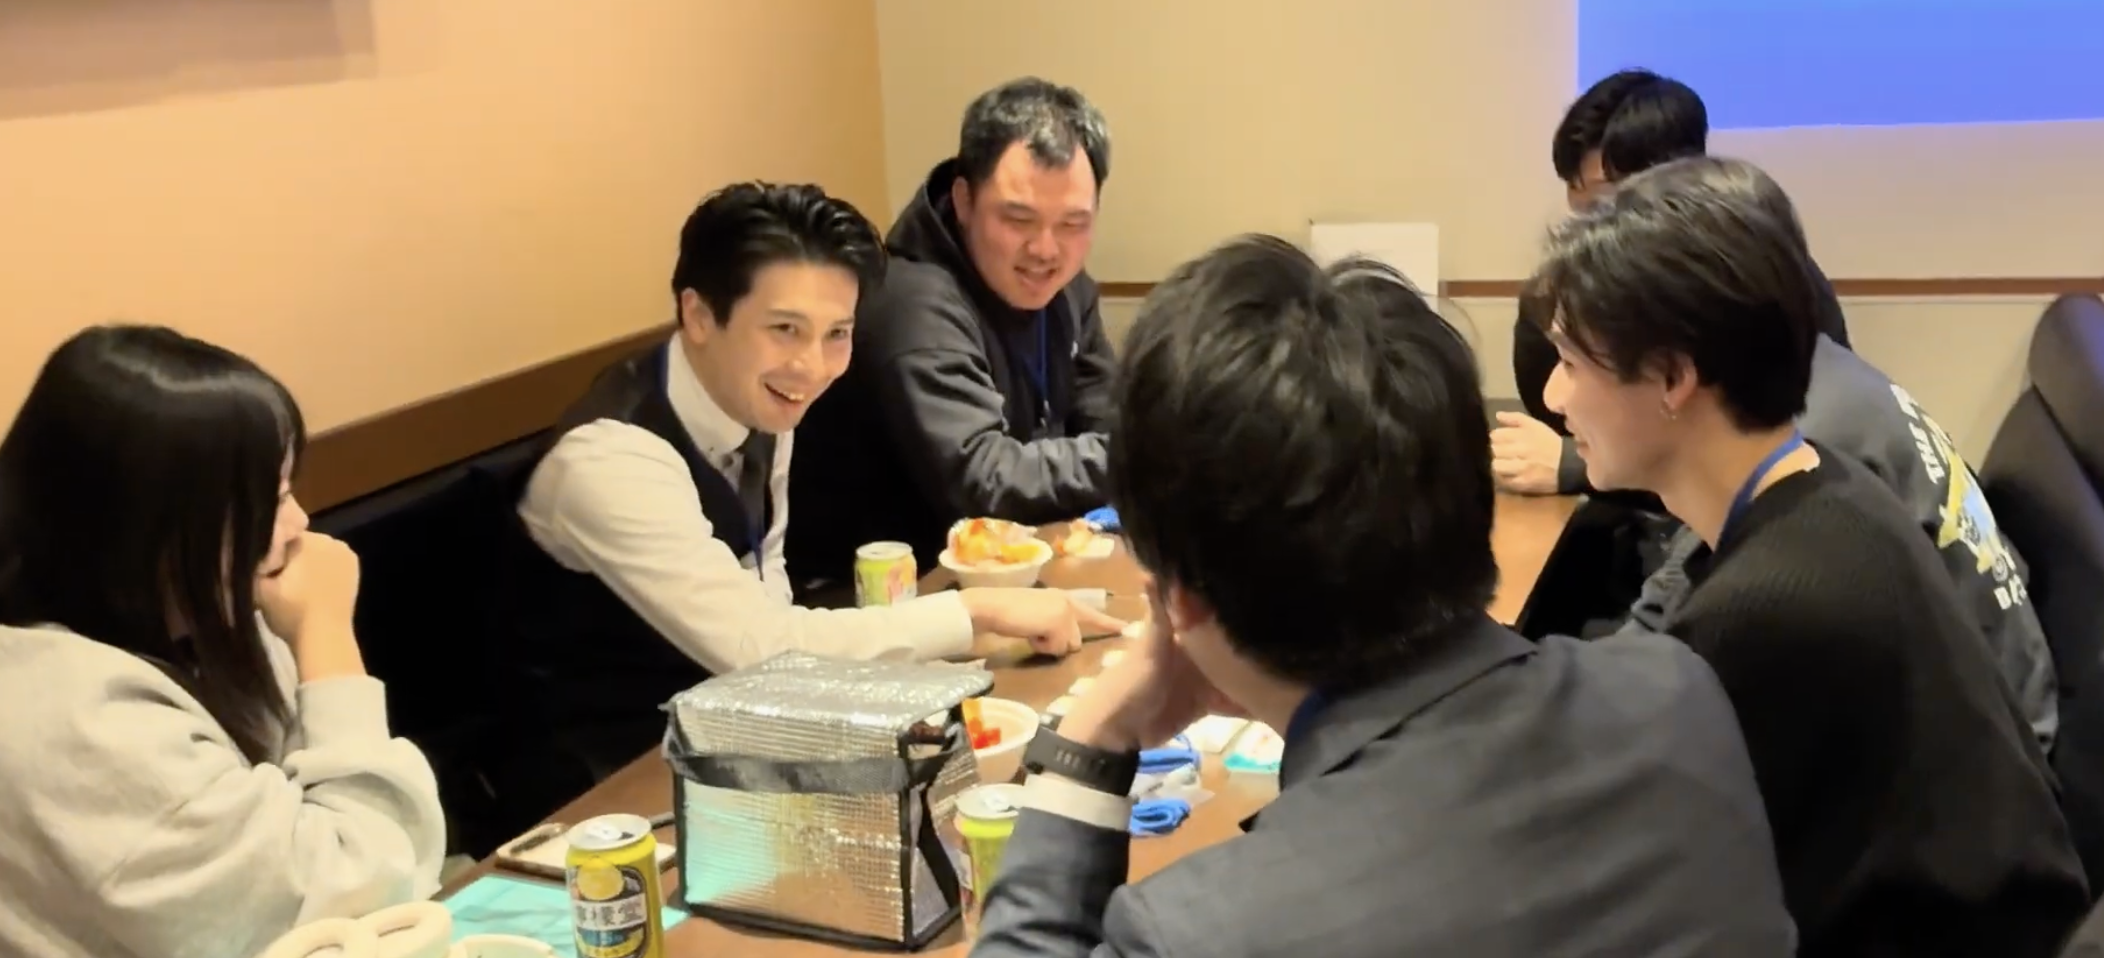
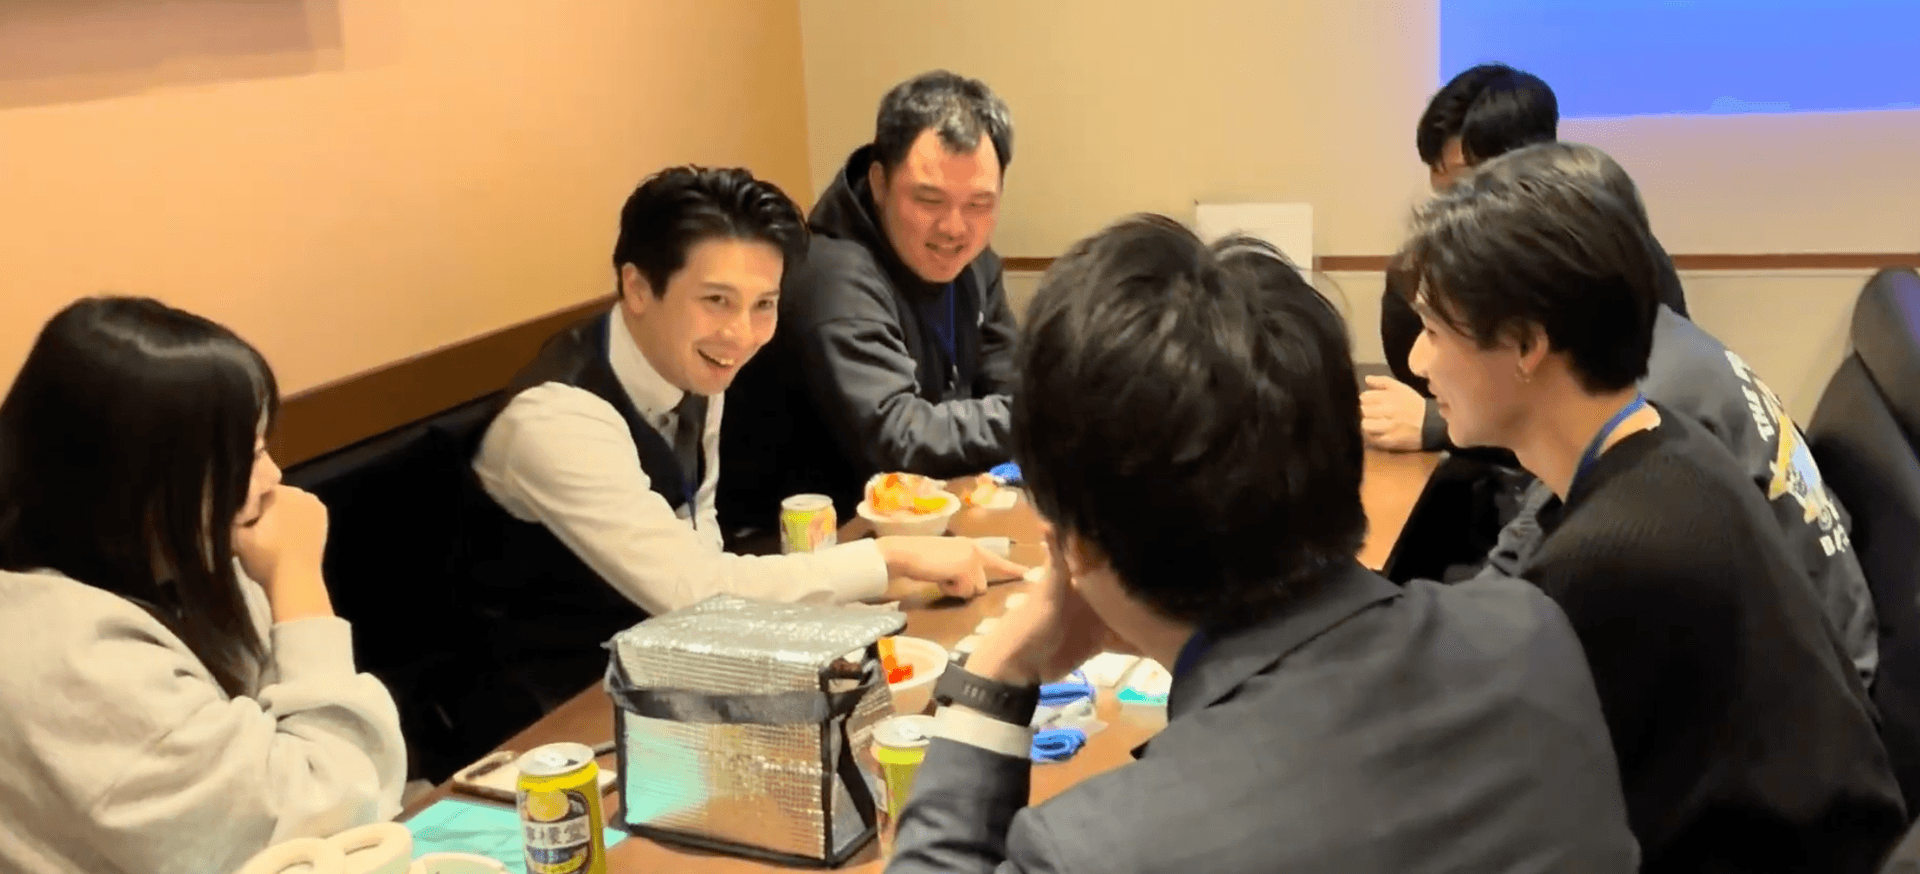
fix: 画像リサイズ+WebP変換でパフォーマンス改善 (close #9)
- optimize-images.mjs をサブディレクトリ再帰+リサイズ対応に拡張
- 巨大画像をリサイズ (advisor: 13MB→1MB, hero: 11MB→1.3MB)
- 全画像のWebP版を生成 (advisor: 254KB, hero: 491KB)
- SelfReflection.tsx で <picture> + WebP を使用

diff --git a/client/src/pages/SelfReflection.tsx b/client/src/pages/SelfReflection.tsx
@@ -51,6 +51,11 @@ const SELF_REFLECTION_IMAGE_ALIASES: Record<string, string> = {
   "/self_reflection/advisor.jpg": "/self_reflection/advisor.png",
 };
 
+/** .png/.jpg パスから対応する .webp パスを返す */
+function toWebP(src: string): string {
+  return src.replace(/\.(png|jpe?g)$/i, ".webp");
+}
+
 function normalizeSelfReflectionImages(c: SelfReflectionContent): SelfReflectionContent {
   const bg = SELF_REFLECTION_IMAGE_ALIASES[c.hero.bgImageUrl] ?? c.hero.bgImageUrl;
   const photo = SELF_REFLECTION_IMAGE_ALIASES[c.advisor.photoUrl] ?? c.advisor.photoUrl;
@@ -336,7 +341,8 @@ html { scroll-behavior:smooth; -webkit-font-smoothing:antialiased; }
 }
 .hero-bg {
   position:absolute; inset:0;
-  background:url("${content.hero.bgImageUrl}") center/cover no-repeat;
+  background:url("${toWebP(content.hero.bgImageUrl)}") center/cover no-repeat;
+  background:image-set(url("${toWebP(content.hero.bgImageUrl)}") type("image/webp"), url("${content.hero.bgImageUrl}") type("image/png")) center/cover no-repeat;
   opacity:0.18;
 }
 .hero-inner { position:relative; max-width:760px; margin:0 auto; }
@@ -628,7 +634,10 @@ footer { background:var(--brown-dark); color:rgba(255,255,255,0.6); padding:40px
           </ul>
           <div className="step-img-row">
             {content.steps.images.slice(0, 2).map((img, i) => (
-              <img key={i} src={img.url} alt={img.alt} loading="lazy" />
+              <picture key={i}>
+                <source srcSet={toWebP(img.url)} type="image/webp" />
+                <img src={img.url} alt={img.alt} loading="lazy" />
+              </picture>
             ))}
           </div>
           <div className="s05-cta">
@@ -683,7 +692,10 @@ footer { background:var(--brown-dark); color:rgba(255,255,255,0.6); padding:40px
         <div className="sec-inner">
           <div className="advisor-card">
             <div className="advisor-img-wrap">
-              <img className="advisor-photo" src={content.advisor.photoUrl} alt={content.advisor.name} loading="lazy" />
+              <picture>
+                <source srcSet={toWebP(content.advisor.photoUrl)} type="image/webp" />
+                <img className="advisor-photo" src={content.advisor.photoUrl} alt={content.advisor.name} loading="lazy" />
+              </picture>
               <div className="advisor-overlay">
                 <div className="advisor-name">{content.advisor.name}</div>
                 <div className="advisor-title">{content.advisor.title}</div>
